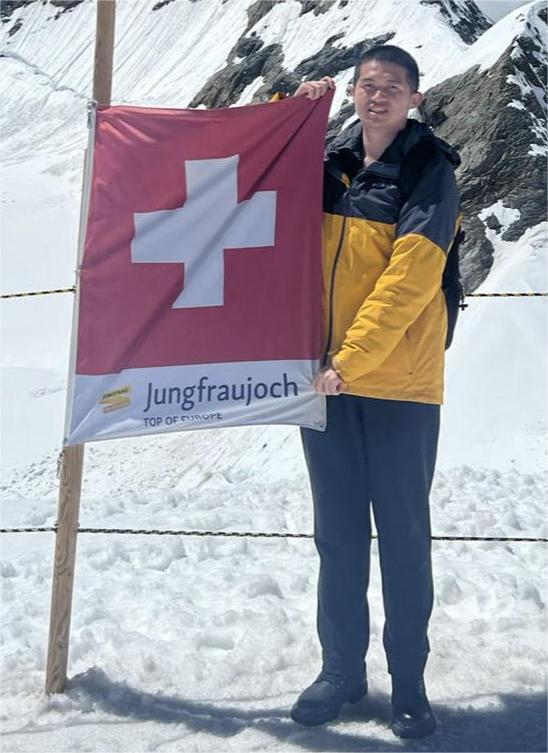
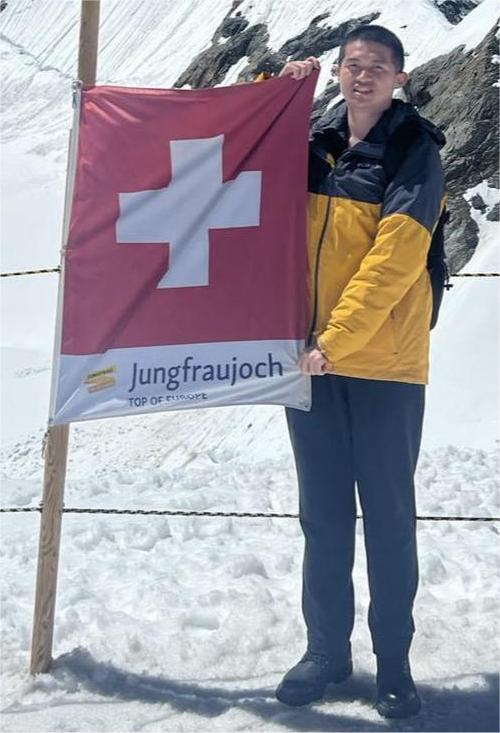
change photo size

diff --git a/_sass/_sidebar.scss b/_sass/_sidebar.scss
@@ -72,9 +72,9 @@
 .author__avatar {
   display: table-cell;
   vertical-align: top;
-  width: 120px;
+  width: 125px;
   // set width only, for non-square avatars
-  height: 170px;
+  height: 175px;
 
   @include breakpoint($large) {
     display: block;
